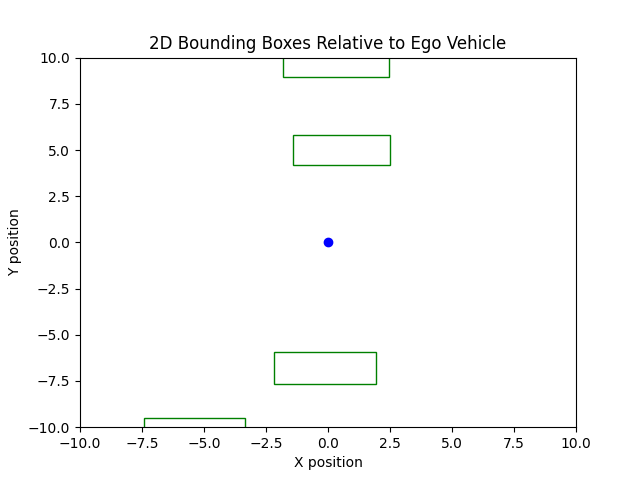
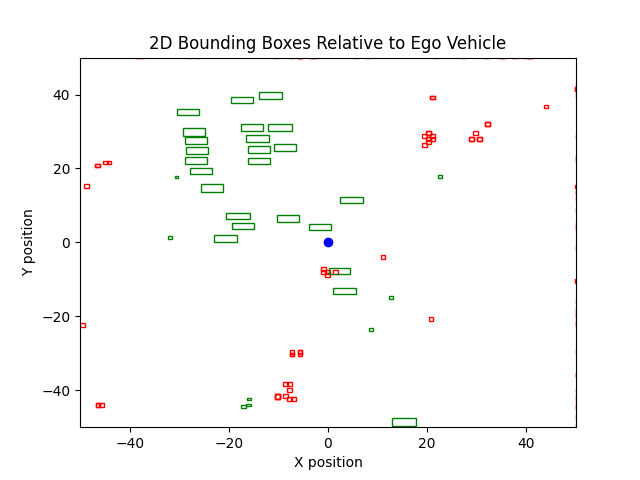
files moved

diff --git a/models/cvcp_model.py b/models/cvcp_model.py
@@ -1,5 +1,5 @@
 import logging
-from models.centerpoint.center_head import CenterHead
+from models.centerpoint.first_stage.center_head import CenterHead
 
 import torch
 import torch.nn.functional as F
@@ -9,9 +9,9 @@ from models.cvt.encoder import CVTEncoder
 from collections import OrderedDict
 
 from metrics.iou_3d import IoU3D
-from .centerpoint.two_stage_detector import TwoStageDetectorUtils as utils
-from .centerpoint.roi_head import RoIHead
-from .centerpoint.BEVFeatureExtractor import BEVFeatureExtractor
+from .centerpoint.second_stage.two_stage_detector import TwoStageDetectorUtils as utils
+from .centerpoint.second_stage.roi_head import RoIHead
+from .centerpoint.second_stage.BEVFeatureExtractor import BEVFeatureExtractor
 import matplotlib.pyplot as plt
 import matplotlib.patches as patches
 import torch.nn as nn
@@ -147,7 +147,7 @@ class CVCPModel(nn.Module):
 
         return boxes, cvt_out, loss
 
-    def _forward_stage_two(self, stage_one_boxes, bev, batch, train=False):
+    def _forward_stage_two(self, stage_one_boxes, bev, batch):
         """
         Performs the forward pass for stage two of the model.
 
@@ -170,7 +170,7 @@ class CVCPModel(nn.Module):
         label = utils.reorder_first_stage_pred_and_feature(
             first_pred=stage_one_boxes, label=batch['labels'], features=features)
 
-        pred_stage_two = self.roi_head(label, training=train)
+        pred_stage_two = self.roi_head(label)
         roi_loss, tb_dict = self.roi_head.get_loss()
 
         # if train: 
@@ -191,7 +191,7 @@ class CVCPModel(nn.Module):
         """
         boxes, cvt_out, loss = self._forward_stage_one(batch)
         pred_stage_two, roi_loss, tb_dict = self._forward_stage_two(
-            boxes, cvt_out, batch, train=True)
+            boxes, cvt_out, batch)
         
         loss = utils.combine_loss(loss, roi_loss, tb_dict)
         loss, log_vars = self.parse_second_losses(loss)
@@ -235,8 +235,8 @@ class CVCPModel(nn.Module):
         # Plot each pred bounding box
         for bbox in pred_boxes_2d:
             center_x, center_y, width, length = bbox
-            lower_left_x = center_x - width / 2
-            lower_left_y = center_y - length / 2
+            lower_left_x = center_x - length / 2
+            lower_left_y = center_y - width / 2
             rect = patches.Rectangle((lower_left_x.cpu().item(), lower_left_y.cpu().item()), length.cpu().item(), width.cpu().item(), linewidth=1, edgecolor='r', facecolor='none')
             ax.add_patch(rect)
         
@@ -253,8 +253,8 @@ class CVCPModel(nn.Module):
         ax.plot(0, 0, 'bo')  # blue dot
 
         # Set plot limits
-        ax.set_xlim(-10, 10)
-        ax.set_ylim(-10, 10)
+        ax.set_xlim(-50, 50)
+        ax.set_ylim(-50, 50)
 
         # Set labels and title
         ax.set_xlabel('X position')

diff --git a/models/model_module.py b/models/model_module.py
@@ -6,7 +6,7 @@ import lightning as L
 
 from metrics.iou_3d import IoU3D
 from models.cvcp_model import CVCPModel
-from .centerpoint.two_stage_detector import TwoStageDetectorUtils as utils
+from .centerpoint.second_stage.two_stage_detector import TwoStageDetectorUtils as utils
 
 class CVCPModule(L.LightningModule):
     """
@@ -59,7 +59,7 @@ class CVCPModule(L.LightningModule):
             float: The loss value.
 
         """
-        preds, loss = self.model(batch, train=True)
+        preds, loss = self.model(batch)
         
         self.iou(
             preds['rois'][..., :7],
@@ -87,7 +87,7 @@ class CVCPModule(L.LightningModule):
             float: The loss value.
 
         """
-        preds, loss = self.model(batch, train=False)
+        preds, loss = self.model(batch)
         
         self.iou(
             preds['rois'][..., :7],

diff --git a/models/centerpoint/first_stage/center_head.py b/models/centerpoint/first_stage/center_head.py
@@ -5,11 +5,11 @@
 # Licensed under the MIT License
 # ------------------------------------------------------------------------------
 
-from models.centerpoint.utils.box_torch_ops import rotate_nms_pcdet  # needs cuda build
-from models.centerpoint.utils.weight_init import kaiming_init
-from models.centerpoint.utils.circle_nms_jit import circle_nms
-from models.centerpoint.centernet_loss import FastFocalLoss, RegLoss
-from models.centerpoint.utils.misc import Sequential
+from ..utils.box_torch_ops import rotate_nms_pcdet  # needs cuda build
+from ..utils.weight_init import kaiming_init
+from ..utils.circle_nms_jit import circle_nms
+from .centernet_loss import FastFocalLoss, RegLoss
+from ..utils.misc import Sequential
 
 from collections import defaultdict
 import logging

diff --git a/train.py b/train.py
@@ -1,6 +1,6 @@
 from models.cvcp_model import CVCPModel, head
 from models.cvt.encoder import CVTEncoder
-
+from models.model_module import CVCPModule
 import yaml
 from pathlib import Path
 from data.datamodule import NuScenesDataModule
@@ -70,6 +70,8 @@ def main():
 
     # Instantiate the combined model
     model = CVCPModel(cvt_encoder, head_seg, resize_shape, config)
+    
+    modelmodule = CVCPModule(model, config)
 
     datamodule = NuScenesDataModule(
         nuscenes_metadata_path=config['nuscenes_metadata_path'],
@@ -133,7 +135,7 @@ def main():
     print(Style.RESET_ALL)
 
     trainer.fit(
-        model=model,
+        model=modelmodule,
         datamodule=datamodule,
         ckpt_path=config.get('ckpt_path', None)
     )

diff --git a/models/centerpoint/second_stage/roi_head.py b/models/centerpoint/second_stage/roi_head.py
@@ -64,7 +64,7 @@ class RoIHead(RoIHeadTemplate):
                     nn.init.constant_(m.bias, 0)
         nn.init.normal_(self.reg_layers[-1].weight, mean=0, std=0.001)
 
-    def forward(self, batch_dict, training=True):
+    def forward(self, batch_dict):
         """
         :param input_data: input dict
         :return:

diff --git a/models/centerpoint/second_stage/roi_head_template.py b/models/centerpoint/second_stage/roi_head_template.py
@@ -8,7 +8,7 @@ import numpy as np
 import torch
 import torch.nn as nn
 import torch.nn.functional as F
-from .utils import box_torch_ops
+from ..utils import box_torch_ops
 from .proposal_target_layer import ProposalTargetLayer
 
 def limit_period(val, offset=0.5, period=np.pi):

diff --git a/models/centerpoint/first_stage/centernet_loss.py b/models/centerpoint/first_stage/centernet_loss.py
@@ -1,7 +1,7 @@
 import torch
 import torch.nn as nn
 import torch.nn.functional as F
-from models.centerpoint.utils.center_utils import _transpose_and_gather_feat
+from ..utils.center_utils import _transpose_and_gather_feat
 
 
 class RegLoss(nn.Module):

diff --git a/models/centerpoint/second_stage/proposal_target_layer.py b/models/centerpoint/second_stage/proposal_target_layer.py
@@ -8,7 +8,7 @@ import numpy as np
 import torch
 import torch.nn as nn
 
-from .ops.iou3d_nms.iou3d_nms_utils import boxes_iou3d_gpu
+from ..ops.iou3d_nms.iou3d_nms_utils import boxes_iou3d_gpu
 
 
 class ProposalTargetLayer(nn.Module):

diff --git a/models/centerpoint/second_stage/two_stage_detector.py b/models/centerpoint/second_stage/two_stage_detector.py
@@ -1,4 +1,4 @@
-from models.centerpoint.utils import box_torch_ops
+from ..utils import box_torch_ops
 import torch
 
 num_point = 5

diff --git a/INSTALL.md b/INSTALL.md
@@ -11,7 +11,7 @@ conda install -y cuda-toolkit
 mkdir ./downloads && cd ./downloads
 for i in $(seq -w 01 10); do wget "https://d36yt3mvayqw5m.cloudfront.net/public/v1.0/v1.0-trainval${i}_keyframes.tgz"; done
 wget https://d36yt3mvayqw5m.cloudfront.net/public/v1.0/v1.0-mini.tgz
-wget https://d36yt3mvayqw5m.cloudfront.net/public/v1.0/v1.0-trainval.tgz
+wget https://d36yt3mvayqw5m.cloudfront.net/public/v1.0/v1.0-trainval_meta.tgz
 wget https://d36yt3mvayqw5m.cloudfront.net/public/v1.0/nuScenes-map-expansion-v1.3.zip
 
 # Extract dataset
